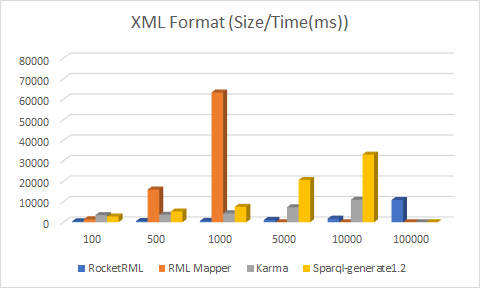
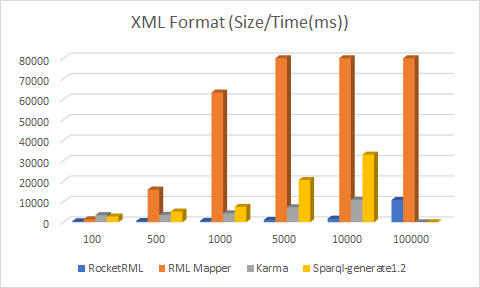
added comparison charts

Changed region(s): [[0.6875, 0.1875, 0.75, 0.7812], [0.5625, 0.1875, 0.625, 0.7812], [0.8125, 0.1875, 0.875, 0.7812]]

diff --git a/rocketrml.html b/rocketrml.html
@@ -144,7 +144,12 @@
 				</section>
 				<section>
 					<h2>Comparison with other RML Implementations</h2>
-
+					<section>
+							<img src="images/json-rml-comp.png">
+						</section>
+						<section>
+						<img src="images/xml-rml-comp.png">
+							</section>
 				</section>
 				<section>
 					<h2>Comparison with Other RDF Generation Tools</h2>
